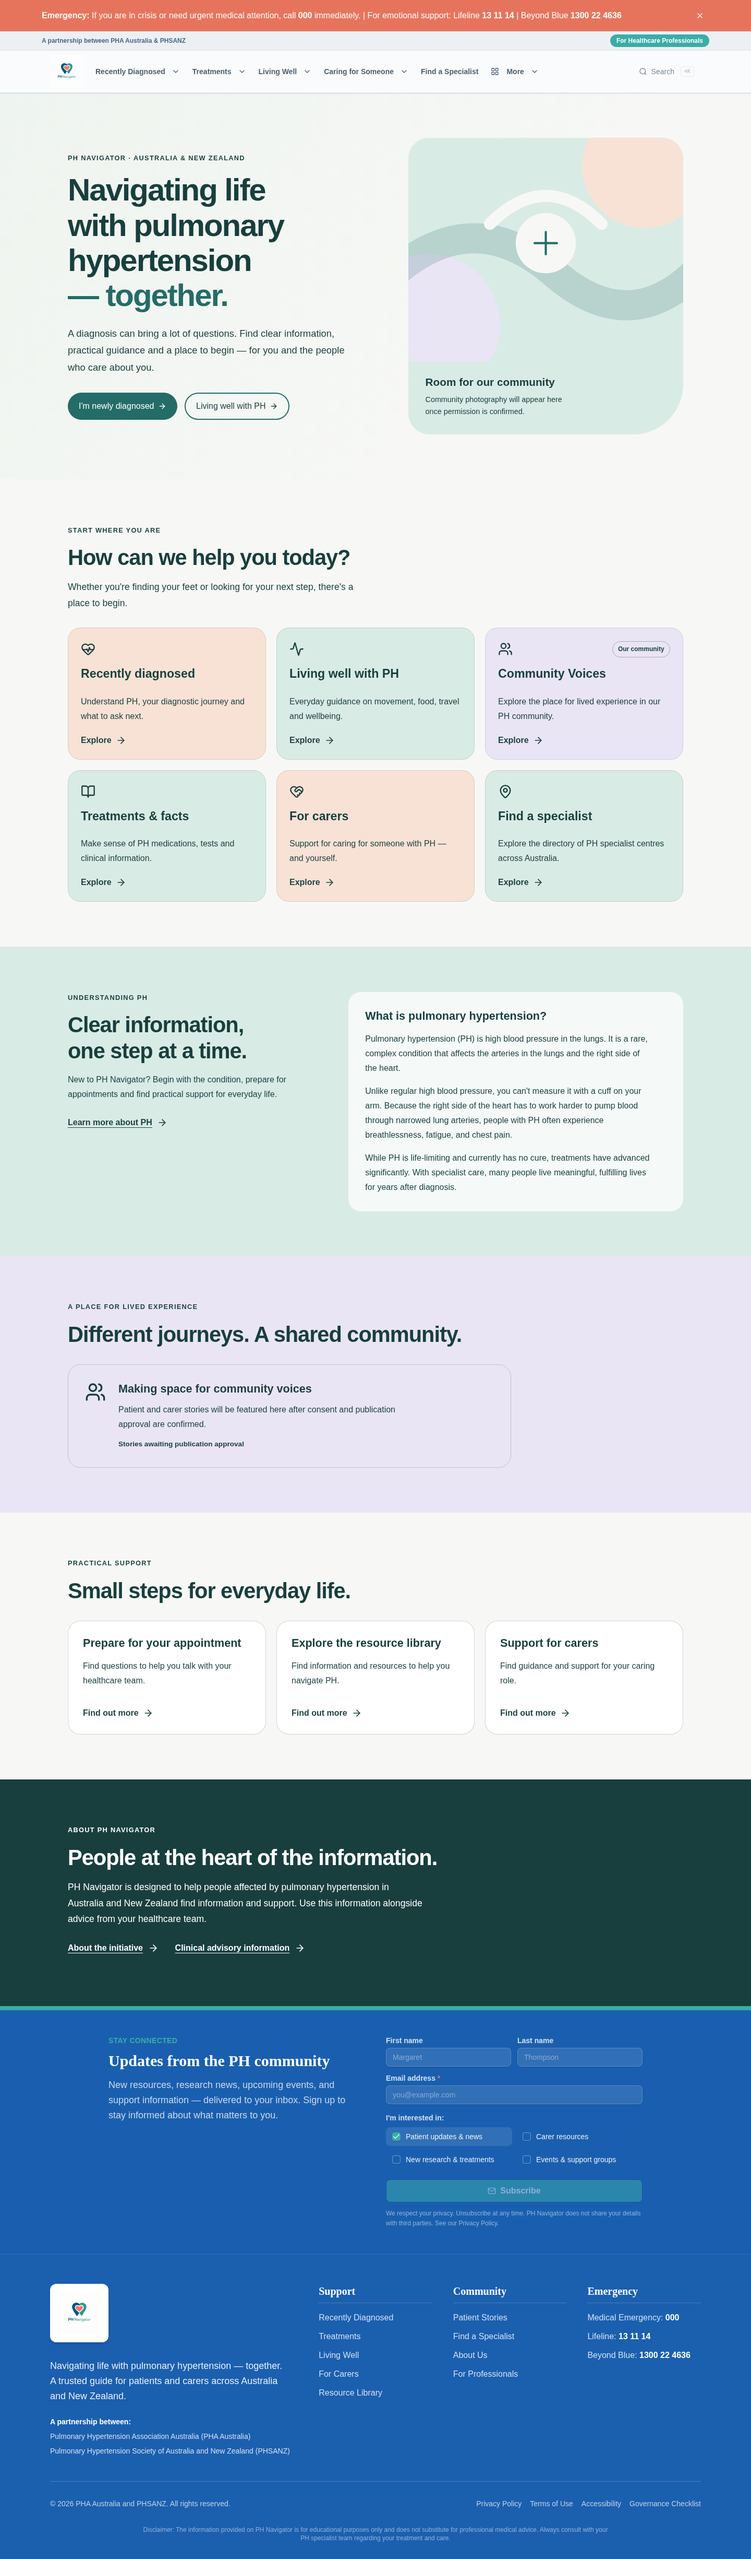
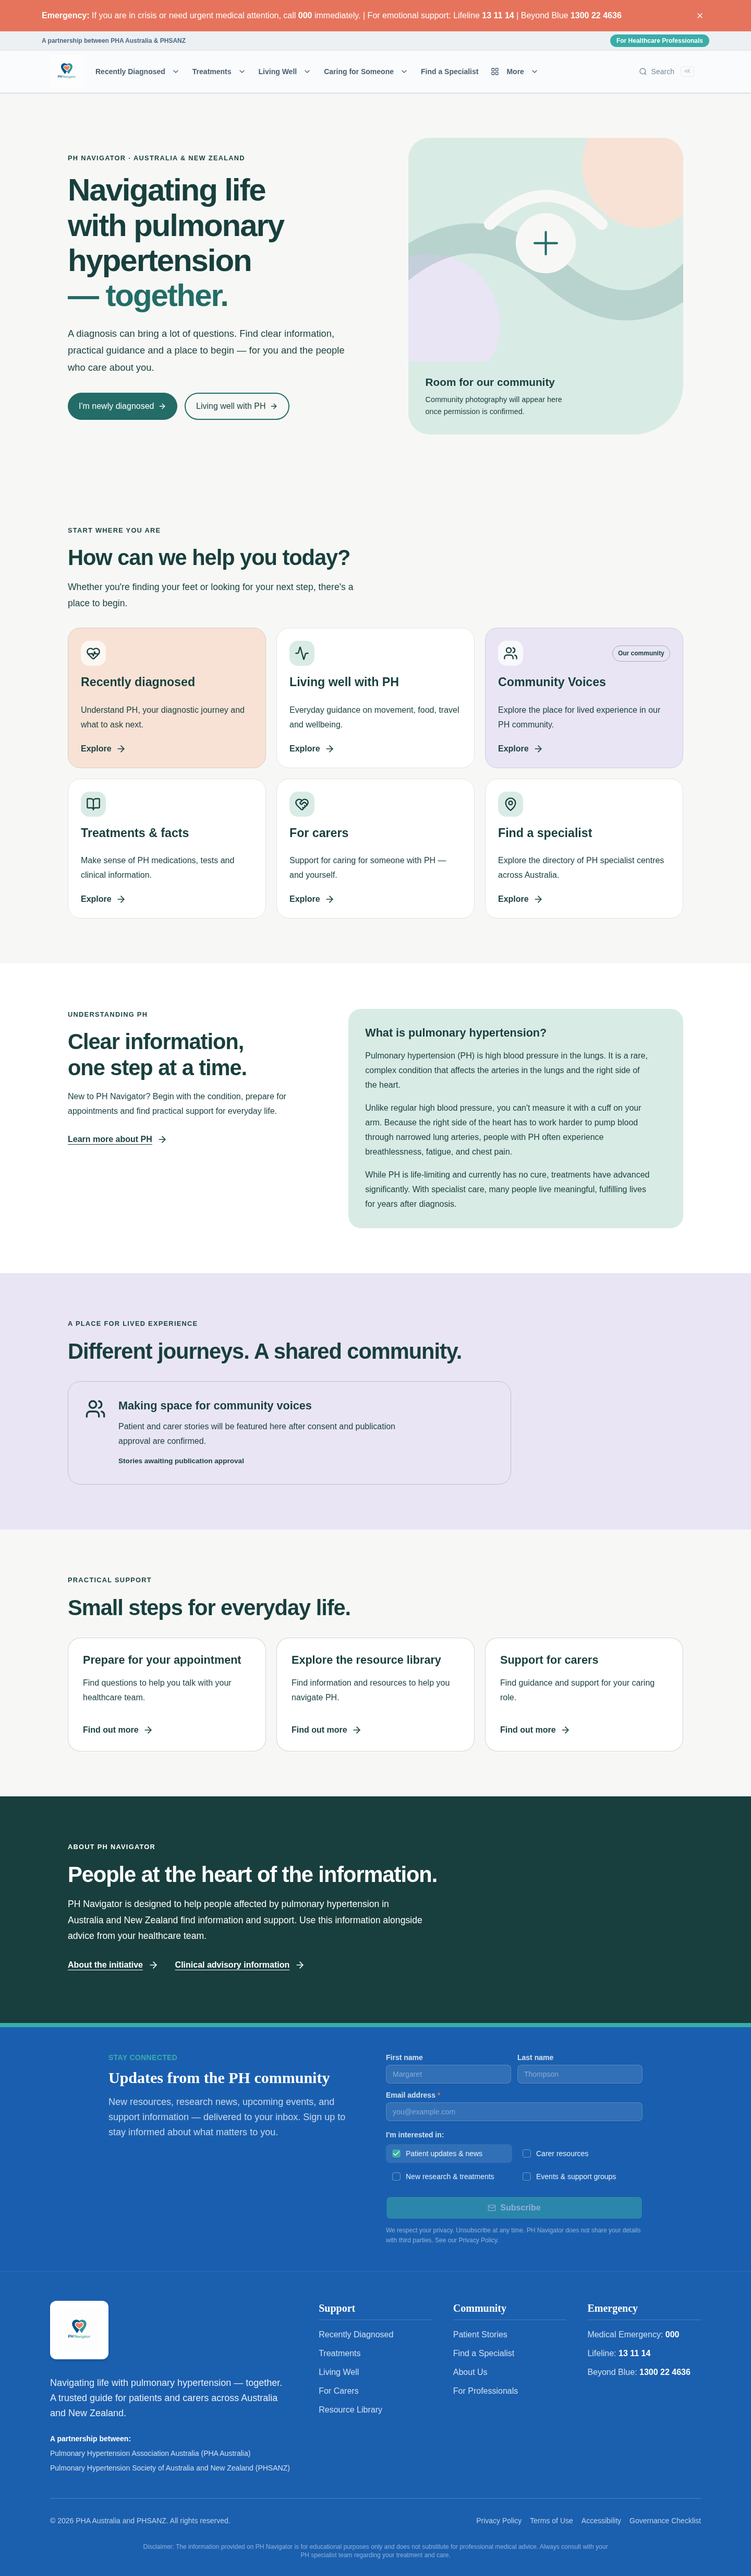
Refine homepage with white space and selective pastel accents

diff --git a/artifacts/ph-navigator/src/components/home/home.css b/artifacts/ph-navigator/src/components/home/home.css
@@ -55,7 +55,7 @@
   margin-bottom: 1rem;
 }
 .home-hero {
-  background: linear-gradient(125deg, #eef4ef, #f7f8f5 65%);
+  background: #f7f8f5;
   overflow: hidden;
 }
 .home-hero-grid {
@@ -144,7 +144,7 @@
 .home-card-link {
   display: block;
   border-radius: 1.5rem;
-  background: var(--home-mint);
+  background: white;
 }
 .home-tone-lavender {
   background: var(--home-lavender);
@@ -163,11 +163,14 @@
   box-shadow: none;
   transition:
     box-shadow 0.2s,
-    border-color 0.2s;
+    border-color 0.2s,
+    transform 0.2s;
 }
-.home-card-link:hover .home-pathway {
+.home-card-link:hover .home-pathway,
+.home-card-link:focus-visible .home-pathway {
   border-color: var(--home-teal);
-  box-shadow: 0 6px 20px #183f3d12;
+  box-shadow: 0 12px 28px #183f3d14;
+  transform: translateY(-3px);
 }
 .home-card-top {
   display: flex;
@@ -176,6 +179,19 @@
   min-height: 2rem;
   gap: 0.5rem;
   margin-bottom: 1rem;
+}
+.home-pathway-icon {
+  display: inline-flex;
+  align-items: center;
+  justify-content: center;
+  width: 3rem;
+  height: 3rem;
+  border-radius: 1rem;
+  background: var(--home-mint);
+}
+.home-tone-peach .home-pathway-icon,
+.home-tone-lavender .home-pathway-icon {
+  background: #ffffffb8;
 }
 .home-label {
   font-size: 0.75rem;
@@ -202,7 +218,7 @@
   margin-top: 1.25rem;
 }
 .home-understanding {
-  background: var(--home-mint);
+  background: white;
 }
 .home-understanding-grid {
   display: grid;
@@ -213,7 +229,7 @@
   max-width: 62ch;
 }
 .home-medical-copy {
-  background: #ffffffb8;
+  background: var(--home-mint);
   border-radius: 1.5rem;
   padding: 2rem;
 }
@@ -271,8 +287,26 @@
   margin-block: 1rem;
   flex: 1;
 }
-.home-resource:hover {
+.home-resource:hover,
+.home-resource:focus-visible {
   border-color: var(--home-teal);
+  box-shadow: 0 12px 28px #183f3d14;
+  transform: translateY(-3px);
+}
+.home-resource {
+  transition:
+    border-color 0.2s,
+    box-shadow 0.2s,
+    transform 0.2s;
+}
+.home-card-action svg {
+  transition: transform 0.2s;
+}
+.home-card-link:hover .home-card-action svg,
+.home-card-link:focus-visible .home-card-action svg,
+.home-resource:hover .home-card-action svg,
+.home-resource:focus-visible .home-card-action svg {
+  transform: translateX(4px);
 }
 .home-resource-grid {
   margin-top: 2rem;
@@ -352,5 +386,6 @@
   .home-modern *::after {
     transition: none !important;
     animation: none !important;
+    transform: none !important;
   }
 }

diff --git a/artifacts/ph-navigator/src/components/home/PathwayCard.tsx b/artifacts/ph-navigator/src/components/home/PathwayCard.tsx
@@ -24,7 +24,9 @@ export function PathwayCard({
       <Card className="home-pathway">
         <CardHeader>
           <div className="home-card-top">
-            <Icon aria-hidden="true" size={28} />
+            <span className="home-pathway-icon">
+              <Icon aria-hidden="true" size={28} />
+            </span>
             {community && <span className="home-label">Our community</span>}
           </div>
           <h3 className="home-card-title">{title}</h3>

diff --git a/artifacts/ph-navigator/src/pages/home.tsx b/artifacts/ph-navigator/src/pages/home.tsx
@@ -48,7 +48,6 @@ const pathways = [
     description: "Support for caring for someone with PH — and yourself.",
     href: "/caring-for-someone",
     icon: HeartHandshake,
-    tone: "peach" as const,
   },
   {
     title: "Find a specialist",

diff --git a/docs/stage-1-homepage.md b/docs/stage-1-homepage.md
@@ -51,3 +51,11 @@ Screenshots from the local production preview (external fonts may fall back in t
 - [Mobile, 390px](stage-1-screenshots/homepage-mobile.png)
 
 No merge or deployment is authorised by this PR.
+
+## White-space refinement — 3 November 2026
+
+Following review, the hero uses a plain off-white background and most pathway cards are white with compact mint icon surfaces. Recently Diagnosed retains peach and Community Voices retains lavender. The education section now uses a white background and a mint reading panel. The lavender community section and dark teal closing section remain visual anchors.
+
+Pathway and resource cards now have subtle elevation and directional arrow feedback on hover and keyboard focus. Reduced-motion mode suppresses those transforms. No copy, routes or integrations were changed in this refinement.
+
+Revalidated frontend TypeScript and production build with Cloudflare's `BASE_PATH=/`. Chromium checks pass at 320, 390, 768 and 1440px, all 12 homepage destinations render, visible focus and reduced-motion checks pass, and no runtime errors were observed. Desktop and mobile screenshots above have been refreshed.
